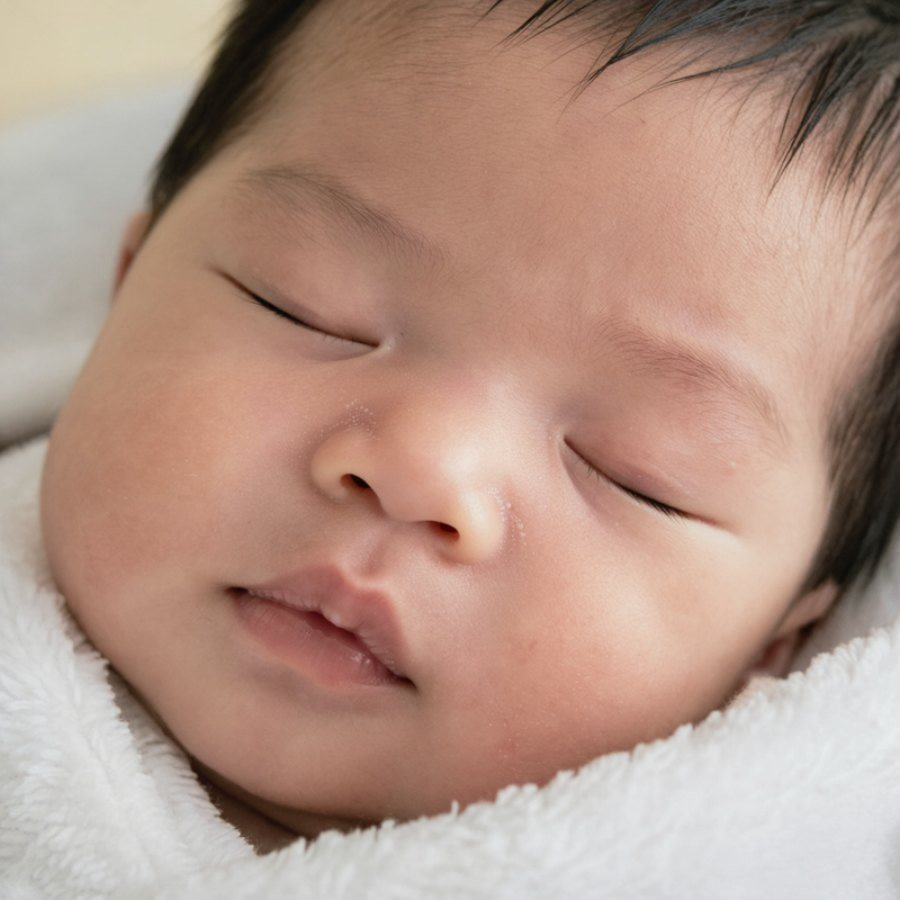
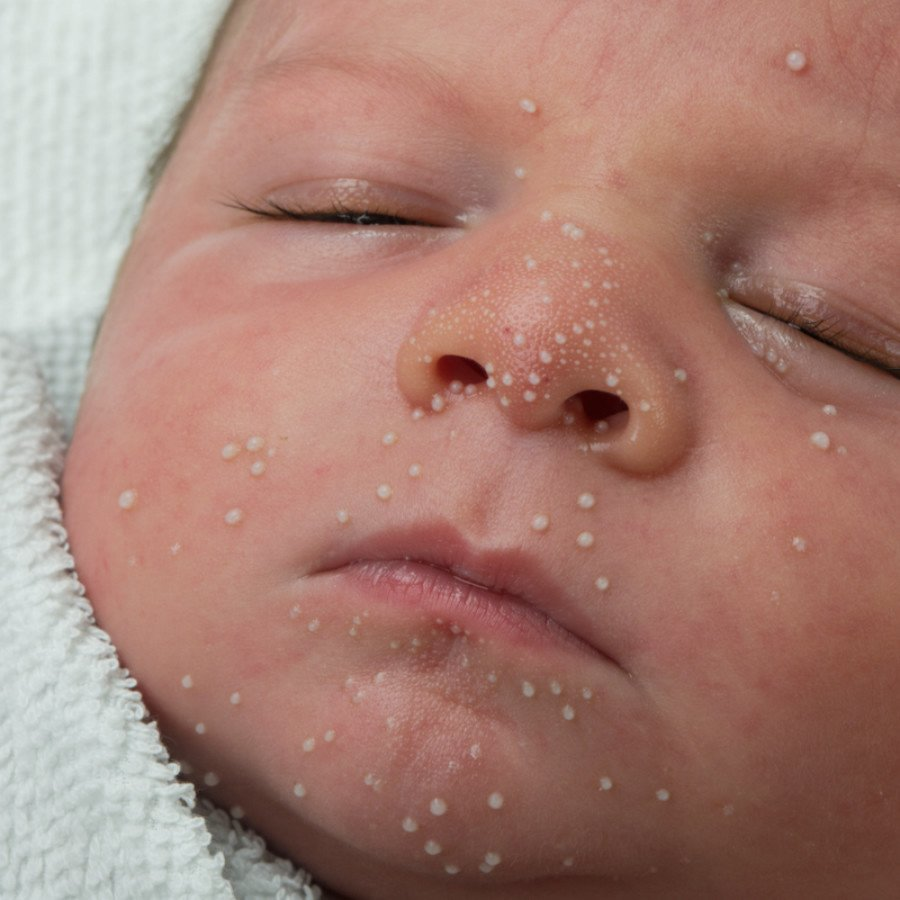
Preview: one system for Everyday care: photo step rows, tips in Good to know, one Is-this-normal template, rings on the condition
Claude-Session: https://claude.ai/code/session_01SSLJSJHqsTStWkqtBqtxJf

diff --git a/preview-everyday-care/js/care-photos.js b/preview-everyday-care/js/care-photos.js
@@ -9,7 +9,7 @@
 (function () {
   const F = s => (window.__hub ? window.__hub.F(s) : s);
   const CAT = 'Daily rhythm';
-  const src = n => `assets/care/${n}.jpg?v=1122n`;
+  const src = n => `assets/care/${n}.jpg?v=1122s`;
   const img = (n, alt) => `<img src="${src(n)}" alt="${F(alt).replace(/"/g, '&quot;')}" loading="lazy">`;
   const pin = ([label, x, y, side]) => `<span class="ph-pin ph-pin-${side}" style="left:${x}%;top:${y}%"><i></i><span>${F(label)}</span></span>`;
   const photo = (n, alt, pins, cls = '') => `<figure class="ph-photo ph-hero care-ph ${cls}">${img(n, alt)}${(pins || []).map(pin).join('')}</figure>`;
@@ -27,7 +27,7 @@
   const SEE = { 'rash:peeling': 'peeling', 'rash:newborn': 'milia', 'look:0:cord': 'cord', 'rash:acne': 'acne', 'rash:cradle': 'cradle', 'look:1:poop': 'cleandiaper',
     'rash:drool': 'drool', 'p:teething': 'soregums', 'rash:eczema': 'eczema', 'look:3:poop': 'solids', 'rash:heat': 'heat' };
   // Is this normal? pages: the photo for "What it looks like".
-  const TILE_CROP = { milia: [50, 55, 1.4], cradle: [45, 32, 1.4], heat: [50, 42, 1.3], peeling: [28, 70, 1.4], cord: [50, 48, 1.4], acne: [35, 60, 1.5], eczema: [40, 47, 1.3], drool: [50, 52, 1.4] };
+  const TILE_CROP = { milia: [30, 58, 1.5], cradle: [45, 32, 1.4], heat: [50, 42, 1.3], peeling: [28, 70, 1.4], cord: [50, 48, 1.4], acne: [35, 60, 1.5], eczema: [40, 47, 1.3], drool: [50, 52, 1.4] };
   const SEE_LINE = { 'rash:peeling': 'Common in the first weeks.', 'rash:newborn': 'Tiny bumps that fade on their own.', 'look:0:cord': 'A little is normal as it heals.',
     'rash:acne': 'Baby acne, gone by 4–6 months.', 'rash:cradle': 'Cradle cap, usually gone by age 1.', 'look:1:poop': 'Can be fine if feeds go well.',
     'rash:drool': 'Comes with drool. Easy to soothe.', 'p:teething': 'Teething can start around now.', 'rash:eczema': 'Often eczema. Thick cream helps.',
@@ -160,7 +160,7 @@
 
   // Skin pages, like the inspiration: a big photo with a close-up circle, then what helps, then how to tell normal from time to call.
   // The spot on each square photo (x%, y%), checked on a grid. The ring sits on it; the magnified circle sits in the far corner.
-  const ZOOM = { cradle: [45, 32], acne: [35, 60], newborn: [50, 55], peeling: [28, 70], drool: [50, 52], eczema: [40, 47], heat: [50, 42] };
+  const ZOOM = { cradle: [45, 32], acne: [35, 60], newborn: [30, 58], peeling: [28, 70], drool: [50, 52], eczema: [40, 47], heat: [50, 42] };
   function sizeUp(main, r) {
     if (!/^(h:diapers|t:diapers)/.test(r) || /size up/i.test(main.textContent) || !window.__hub) return;
     const row = window.__hub.row({ icon: 'diaper', cat: CAT, title: 'Leaks mean it’s time to size up', sub: 'So do red marks at the legs or waist, or tabs that don’t reach the middle.' });
@@ -170,8 +170,91 @@
     else if (!h) (main.querySelector('.hub-page') || main).insertAdjacentHTML('beforeend', window.__hub.list('Good to know', [row]));
   }
 
+
+  /* ===== One system for every Everyday care page (Nov 22) =====
+     1. Numbered steps: every step has its own photo, as a row (photo left, number, action, one line).
+     2. Lists with no order ("What to do", "What helps"): icons, unchanged.
+     3. No loose notes under the steps: tips join "Good to know", always after the steps.
+     4. Every "Is this normal?" page: photo with a ring on the spot, Where, What helps, How to tell. */
+  const STEP_PH = {
+    'p:sponge': ['towel', 'spface', 'spbody', 'spdry'], 't:bath:0': ['towel', 'spface', 'spbody', 'spdry'],
+    'p:tub': ['tub', 'bathface', 'tubbath', 'hero-1'], 't:bath:1': ['tub', 'bathface', 'tubbath', 'hero-1'],
+    't:bath:2': ['bedtime', 'bfeed', 'bbook', 'blay'], 't:bath:3': ['bathmat', 'bigtub', 'bdrain'],
+    'h:diapers:0': ['dsetup', 'dwipe', 'dfresh', 'cord', 'handwash'], 'h:diapers:1': ['dsetup', 'dwipe', 'dfresh', 'diaper', 'handwash'],
+    'h:diapers:2': ['dsetup', 'dtoy', 'wriggle'], 'h:diapers:3': ['dsetup', 'dtoy', 'dstand'], 't:diapers:3': ['dsetup', 'dtoy', 'dstand'],
+    't:nails:0': ['nsleep', 'npress', 'nailfile'], 't:nails:1': ['nsleep', 'npress', 'nails'], 't:nails:2': ['nsleep', 'npress', 'nails'], 't:nails:3': ['nsleep', 'npress', 'nails'],
+    'p:brush': ['brushlap', 'brushrice', 'brushpos', 'teeth2'],
+    'h:gums:0': ['gumcloth', 'gums'], 'h:gums:1': ['gumcloth', 'gums'], 'h:gums:2': ['gumcloth', 'gums'], 'h:gums:3': ['gumcloth', 'gums'],
+    't:sun:2': ['sunapply', 'sunneck', 'sunagain'], 't:sun:3': ['sunapply', 'sunneck', 'sunagain']
+  };
+  const TIP_ICON = [[/boys|girls|front to back/i, 'diaper'], [/ear/i, 'smile'], [/shampoo|bath/i, 'bath'], [/toenail|one hand/i, 'hand'],
+    [/twice a day/i, 'moon'], [/toy/i, 'toy'], [/toothpaste/i, 'tooth'], [/sunscreen/i, 'sun']];
+  function stepRows(main, r) {
+    const pics = STEP_PH[r]; if (!pics) return false;
+    const h = [...main.querySelectorAll('h2.hub-h2')].find(x => x.textContent.trim() === 'Steps'); const fig = h && h.nextElementSibling;
+    if (!fig || fig.classList.contains('care-steps')) return !!fig;
+    const steps = [...fig.querySelectorAll('.hub-iconstep, .care-nsteps li')].filter(s => s.querySelector('b'));
+    if (steps.length !== pics.length) { console.warn('[care] step photos', r, steps.length, pics.length); return false; }
+    const rows = steps.map((st, i) => { const b = st.querySelector('b').cloneNode(true); b.querySelectorAll('em,.care-n').forEach(e => e.remove()); const sm = st.querySelector('small');
+      return `<li><span class="care-step-ph">${img(pics[i], b.textContent)}</span><div><b><span class="care-n">${i + 1}</span>${b.innerHTML}</b>${sm ? `<small>${sm.innerHTML}</small>` : ''}</div></li>`; }).join('');
+    // Tips that sat under the steps move to "Good to know".
+    const tips = [...fig.querySelectorAll('.tpl-notes li')].map(li => { const b = li.querySelector('b'); const title = b ? b.textContent.replace(/\.$/, '') : ''; const sub = b ? li.textContent.slice(b.textContent.length).trim() : li.textContent.trim();
+      const icon = (TIP_ICON.find(([re]) => re.test(title)) || [0, 'heart'])[1]; return window.__hub.row({ icon, cat: CAT, title, sub }); });
+    fig.outerHTML = `<ol class="care-steps">${rows}</ol>`;
+    if (tips.length && window.__hub) {
+      const gh = [...main.querySelectorAll('h2.hub-h2')].find(x => x.textContent.trim() === 'Good to know'), list = gh && gh.nextElementSibling;
+      if (list) list.insertAdjacentHTML('afterbegin', tips.join(''));
+      else { const after = main.querySelector('ol.care-steps'); const next = after.nextElementSibling;
+        const pair = main.querySelector('.care-pair'); const anchor = (pair && pair.compareDocumentPosition(after) & 2) ? pair : after;
+        anchor.insertAdjacentHTML('afterend', window.__hub.list('Good to know', tips)); }
+    }
+    return true;
+  }
+
+  // "Is this normal?" pages that aren't skin: the same layout as the skin pages.
+  const LOOKS = {
+    'look:0:cord': { n: 'cord', at: [50, 48], where: 'The belly button', normal: 'It darkens, dries and shrinks. A spot or two of blood as it falls off, usually by 3 weeks.' },
+    'p:teething': { n: 'soregums', at: [45, 45], where: 'The gums, often the bottom front first', normal: 'Lots of drool, chewing on everything, and a few fussy days.', status: 'Usually normal' },
+    'look:1:poop': { chart: true, normal: 'Yellow, green, tan, brown or orange. Days apart can be normal if breastfed.', status: 'Usually normal' },
+    'look:3:poop': { chart: true, normal: 'Yellow, green, tan, brown or orange. Thicker and smellier once solids start.', status: 'Usually normal' }
+  };
+  const CHECK = '<svg viewBox="0 0 24 24" fill="none" stroke="currentColor" stroke-width="1.8" stroke-linecap="round" stroke-linejoin="round" aria-hidden="true"><circle cx="12" cy="12" r="9"/><path d="m8.5 12.3 2.4 2.4 4.6-5"/></svg>';
+  function ringPhoto(n, x, y, alt) {
+    const H = 9 / 16, pos = Math.max(0, Math.min(1, (y / 100 - H / 2) / (1 - H))), top = pos * (1 - H), ry = ((y / 100 - top) / H) * 100;
+    return `<figure class="ph-photo ph-hero care-ph care-skin" style="--py:${(pos * 100).toFixed(0)}%">${img(n, alt)}<span class="care-ring" style="left:${x}%;top:${ry.toFixed(1)}%"></span></figure>`;
+  }
+  function tellBoxes(main, normal) {
+    const callH = [...main.querySelectorAll('h2.hub-h2')].find(h => h.textContent.trim() === 'When to call'), calls = main.querySelector('.care-calls');
+    if (!callH || !calls) return;
+    const ps = [...calls.querySelectorAll('p')], ped = ps.find(p => /pediatrician/i.test(p.textContent)), urgent = ps.find(p => /911|right away/i.test(p.textContent));
+    callH.textContent = F('How to tell');
+    calls.outerHTML = `<div class="care-tell"><div class="is-ok"><b class="care-tell-k"><span class="care-tell-ic"><svg viewBox="0 0 24 24" fill="none" stroke="#2a6078" stroke-width="1.8" stroke-linecap="round" stroke-linejoin="round" aria-hidden="true"><path d="m5 12.5 4.5 4.5L19 7.5"/></svg></span>${F('Normal')}</b><p>${normal}</p></div>`
+      + `<div class="is-call"><b class="care-tell-k"><span class="care-tell-ic"><svg viewBox="0 0 24 24" fill="none" stroke="#9b3326" stroke-width="1.6" stroke-linecap="round" stroke-linejoin="round" aria-hidden="true"><path d="M5 4h4l2 5-2.5 1.5a11 11 0 0 0 5 5L15 13l5 2v4a2 2 0 0 1-2 2A16 16 0 0 1 3 6a2 2 0 0 1 2-2"/></svg></span>${F('Time to call')}</b><p>${ped ? ped.innerHTML.trim() : ''}</p></div></div>`
+      + (urgent ? `<p class="care-tell-911">${urgent.innerHTML}</p>` : '');
+  }
+  function normalHead(main, status) {
+    const head = main.querySelector('.dev-area-head'); if (!head) return;
+    let ctx = head.querySelector('.hub-context'); const h1 = head.querySelector('h1');
+    if (!ctx && h1) { h1.insertAdjacentHTML('beforebegin', '<p class="hub-context"></p>'); ctx = head.querySelector('.hub-context'); }
+    if (ctx) ctx.textContent = F('Is this normal?');
+    if (status && !head.querySelector('.care-verdict') && h1) h1.insertAdjacentHTML('afterend', `<p class="care-verdict is-ok">${CHECK}${F(status)}</p>`);
+  }
+  function lookDetail(main, r) {
+    const L = LOOKS[r]; if (!L || main.querySelector('.care-tell')) return;
+    normalHead(main, L.status);
+    const hs = [...main.querySelectorAll('h2.hub-h2')], first = hs[0];
+    if (L.chart) { const ch = hs.find(h => h.textContent.trim() === 'How to tell'); if (ch) ch.textContent = F('What it looks like'); }
+    else if (first) { const fig = first.nextElementSibling; first.textContent = F('What it looks like');
+      if (fig) fig.outerHTML = ringPhoto(L.n, L.at[0], L.at[1], (main.querySelector('.dev-area-head h1') || {}).textContent || '') + `<p class="care-skin-where"><b>${F('Where:')}</b> ${F(L.where)}</p>`; }
+    // Teething: "What to do" is what helps; its teether photo goes (one photo per page).
+    const todo = [...main.querySelectorAll('h2.hub-h2')].find(h => h.textContent.trim() === 'What to do');
+    if (todo && r === 'p:teething') { todo.textContent = F('What helps'); const ph = todo.nextElementSibling; if (ph && ph.classList.contains('ph-photo')) ph.remove(); }
+    tellBoxes(main, F(L.normal));
+  }
+
   function skinPage(main, id) {
     const fig = main.querySelector('.care-map'); if (!fig || main.querySelector('.care-skin')) return;
+    normalHead(main);
     const where = (fig.querySelector('.tpl-where') || {}).textContent || '', look = (fig.querySelector('.tpl-look') || {}).innerHTML || '';
     const [x, y] = ZOOM[id] || [50, 50], n = RASH[id], S = 3;
     // The frame is 16:9, so it shows 56% of the square photo's height: slide the photo so the spot is in view, then place the ring.
@@ -316,7 +399,8 @@
     const hm = r.match(/^how:(\d)/); if (hm) { routinesPage(main, +hm[1]); return; }
     if (/^look:\d$/.test(r)) { lookPage(main); return; }
     // Is this normal? pages: a real photo in place of the body outline.
-    const seq = photoSteps(main, r); if (!seq) numberSteps(main); lineIcons(main); sizeUp(main, r); addPair(main, r);
+    if (LOOKS[r]) { lineIcons(main); lookDetail(main, r); return; }
+    const seq = stepRows(main, r); if (!seq) numberSteps(main); lineIcons(main); sizeUp(main, r); addPair(main, r);
     const rm = r.match(/^rash:(\w+)/);
     if (rm && RASH[rm[1]]) { skinPage(main, rm[1]); return; }
     addPath(main, r);
@@ -324,7 +408,7 @@
     addCue(main, r);
     const hit = PAGE.find(([re]) => re.test(r)); if (!hit || main.querySelector('.care-ph')) return;
     // One prominent picture, then the strip: never the same photo twice, and the fit pair already shows the diaper.
-    if (NOHERO.has(r) || (SEQ[r] || []).includes(hit[1][1]) || (hit[1][1] === 'diaper' && main.querySelector('.care-pair'))) return;
+    if (STEP_PH[r] || NOHERO.has(r) || (SEQ[r] || []).includes(hit[1][1]) || (hit[1][1] === 'diaper' && main.querySelector('.care-pair'))) return;
     const [title, n, alt, pins, cls, into] = hit[1];
     // Most pages: the photo is the first section. A photo of what helps sits at the top of that page's own section instead.
     const own = into && [...main.querySelectorAll('h2.hub-h2')].find(h => h.textContent.trim() === into);

diff --git a/preview-everyday-care/index.html b/preview-everyday-care/index.html
@@ -18,7 +18,7 @@
 <link rel="stylesheet" href="css/outings-look.css?v=1113e">
 <link rel="stylesheet" href="css/childcare-look.css?v=1120e"><link rel="stylesheet" href="css/care-card.css">
 <link rel="stylesheet" href="css/care-v2.css?v=1117x">
-<link rel="stylesheet" href="css/care-photos.css?v=1122n">
+<link rel="stylesheet" href="css/care-photos.css?v=1122s">
 <link rel="stylesheet" href="css/year-ahead.css?v=1115c"><link rel="stylesheet" href="css/subpage-color.css"><style>#main .you-avatar.has-photo{overflow:hidden;padding:0}#main .you-avatar.has-photo img{width:100%;height:100%;object-fit:cover;display:block}</style><link rel="stylesheet" href="css/stages-nav.css?v=1121m"><link rel="stylesheet" href="css/home-cards.css"><link rel="stylesheet" href="css/home-glance.css?v=1117g"><link rel="stylesheet" href="css/one-app.css"><link rel="stylesheet" href="css/month-story.css"><link rel="stylesheet" href="css/guides-v2.css?v=1"><link rel="stylesheet" href="css/home-card-clean.css?v=3"><link rel="stylesheet" href="css/dev-photo.css?v=34"></head>
 <body><div id="shell"><header class="top"><button class="brand" onclick="if(profile&&profile.dob)navigate('home')" aria-label="Ahead home">ahead<span class="dot">.</span></button><button id="profileButton" class="profile" hidden onclick="navigate('profile')" aria-label="Baby profile and check-ins">M</button></header><main id="main" class="page"><div class="app-loading" role="status">Getting your guide ready…</div><noscript><style>.app-loading{display:none}</style><p>Ahead needs JavaScript to open your guide. Enable it in your browser, then reload this page.</p></noscript></main><nav id="nav" class="nav" hidden aria-label="Main navigation"><button class="active" onclick="navigate('home')" aria-current="page"><svg viewBox="0 0 24 24" fill="none" stroke="currentColor" stroke-width="1.5" stroke-linecap="round" stroke-linejoin="round" aria-hidden="true"><path d="m3 10 9-7 9 7v10H6V10M9 20v-7h6v7"/></svg>Home</button><button class="" onclick="navigate('categories')" ><svg viewBox="0 0 24 24" fill="none" stroke="currentColor" stroke-width="1.5" stroke-linecap="round" stroke-linejoin="round" aria-hidden="true"><circle cx="12" cy="12" r="9"/><path d="m16 8-3 5-5 3 3-5Z"/></svg>Guides</button><button class="" onclick="navigate('timeline')" ><svg viewBox="0 0 24 24" fill="none" stroke="currentColor" stroke-width="1.5" stroke-linecap="round" stroke-linejoin="round" aria-hidden="true"><circle cx="12" cy="12" r="9"/><path d="M12 6v6l4 3"/></svg>Memories</button></nav></div>
 <script src="js/storage.js"></script>
@@ -56,8 +56,8 @@
 <script src="js/safety-look.js"></script>
 <script src="js/safety-v2.js?v=1118s"></script>
 <script src="js/care-art.js?v=1113g"></script>
-<script src="js/care-v2.js?v=1122o"></script>
-<script src="js/care-photos.js?v=1122n"></script>
+<script src="js/care-v2.js?v=1122s"></script>
+<script src="js/care-photos.js?v=1122s"></script>
 <script src="js/cat-icons.js"></script>
 <script src="js/year-ahead-art.js"></script><script src="js/year-ahead.js?v=1117q"></script><script src="js/profile-v2.js?v=1113e"></script><script src="js/stages-nav.js?v=1121m"></script><script src="js/feed-mock2.js?v=1121a"></script><script src="js/feed-templates.js?v=1121a"></script><script src="js/home-copy.js?v=1119zj"></script><script src="js/home-cards.js?v=1119zj"></script><script src="js/home-glance.js?v=1118c"></script>
 <script src="js/feed-photos.js?v=1119zj"></script><script src="js/search-index.js?v=1121m"></script><script src="js/cohesion.js?v=1114v"></script><script src="js/they-grammar.js"></script><script src="js/month-story.js"></script><script src="js/boot.js"></script>

diff --git a/preview-everyday-care/js/care-v2.js b/preview-everyday-care/js/care-v2.js
@@ -1006,8 +1006,8 @@ const sunAges = () => typeof hubAgeTiles === 'function' ? hubAgeTiles({ title: '
     safe: [['hand', 'A hand on {o} the whole bath', 'Babies can slip under in seconds. To step away, take {o} with you.']] };
   TPL['t:bath:3'] = { type: 'howto', k: 'bath', title: 'Move to the big tub',
     why: 'Once {s} {sit|sits} steadily on {p} own, the big tub is fine.',
-    steps: [['mat', 'Lay a non-slip mat in the tub', 'And set a towel, washcloth and soap in reach'], ['drop', 'Fill it no higher than {p} waist', 'When {s} {sit|sits}. Test it with your wrist'], ['tub', 'Sit {o} back down if {s} {stand|stands}', 'Gently, every time'], ['towel', 'Lift {o} out, then drain the tub', 'Even a little water is a risk once {s} can climb']],
-    safe: [['hand', 'A hand on {o} the whole bath', 'Babies can slip under in seconds. To step away, take {o} with you.'], ['tub', 'Skip bath seats', 'They can tip over, and babies can slip out.']] };
+    steps: [['mat', 'Lay a non-slip mat in the tub', 'And set a towel, washcloth and soap in reach'], ['drop', 'Fill it no higher than {p} waist', 'When {s} {sit|sits}. Test it with your wrist'], ['towel', 'Lift {o} out, then drain the tub', 'Even a little water is a risk once {s} can climb']],
+    safe: [['hand', 'A hand on {o} the whole bath', 'Babies can slip under in seconds. To step away, take {o} with you.'], ['stand', 'Sit {o} back down if {s} {stand|stands}', 'Gently, every time. Standing is how most slips happen.'], ['tub', 'Skip bath seats', 'They can tip over, and babies can slip out.']] };
   const diaperRash = [['diaper', 'Diaper rash? Thick zinc cream', 'At every change, and let the skin air out.'], ['diaper', 'Call if a rash isn’t better in 2–3 days', 'Or if it has blisters, pus or bright red folds.']];
   TPL['h:diapers:0'] = { type: 'howto', k: 'diapers', title: 'Change a diaper',
     why: 'About 8–12 a day in the first weeks.',

diff --git a/preview-everyday-care/css/care-photos.css b/preview-everyday-care/css/care-photos.css
@@ -237,3 +237,14 @@
 #main .care-skin .care-zoom { display: none }
 #main .care-skin .care-ring { width: 22% }
 #main .care-tiles .care-tiles-lead.is-last { margin: 12px 0 0 }
+
+/* ===== Nov 22 system ===== */
+/* Steps: one row per step, its photo on the left. Same on every page. */
+#main ol.care-steps { list-style: none; margin: 0 0 22px; padding: 4px 14px; background: #fffefb; border: 1px solid var(--line, #e1e5d9); border-radius: 18px }
+#main ol.care-steps li { display: grid; grid-template-columns: 76px 1fr; gap: 14px; align-items: center; padding: 10px 0 }
+#main ol.care-steps li + li { border-top: 1px solid #efece6 }
+#main .care-step-ph { display: block; width: 76px; aspect-ratio: 1; border-radius: 12px; overflow: hidden; background: #f3ece4 }
+#main .care-step-ph img { display: block; width: 100%; height: 100%; object-fit: cover }
+#main ol.care-steps b { display: flex; gap: 8px; align-items: baseline; font-size: 15.5px; line-height: 1.3; font-weight: 650; color: #2f2c35 }
+#main ol.care-steps .care-n { flex: none; width: 22px; height: 22px; border-radius: 50%; background: #e3f1f7; color: #2a6078; font-size: 12.5px; font-weight: 750; display: inline-grid; place-items: center; transform: translateY(-1px) }
+#main ol.care-steps small { display: block; margin: 3px 0 0 30px; font-size: 13.5px; line-height: 1.4; color: #6b6670 }
